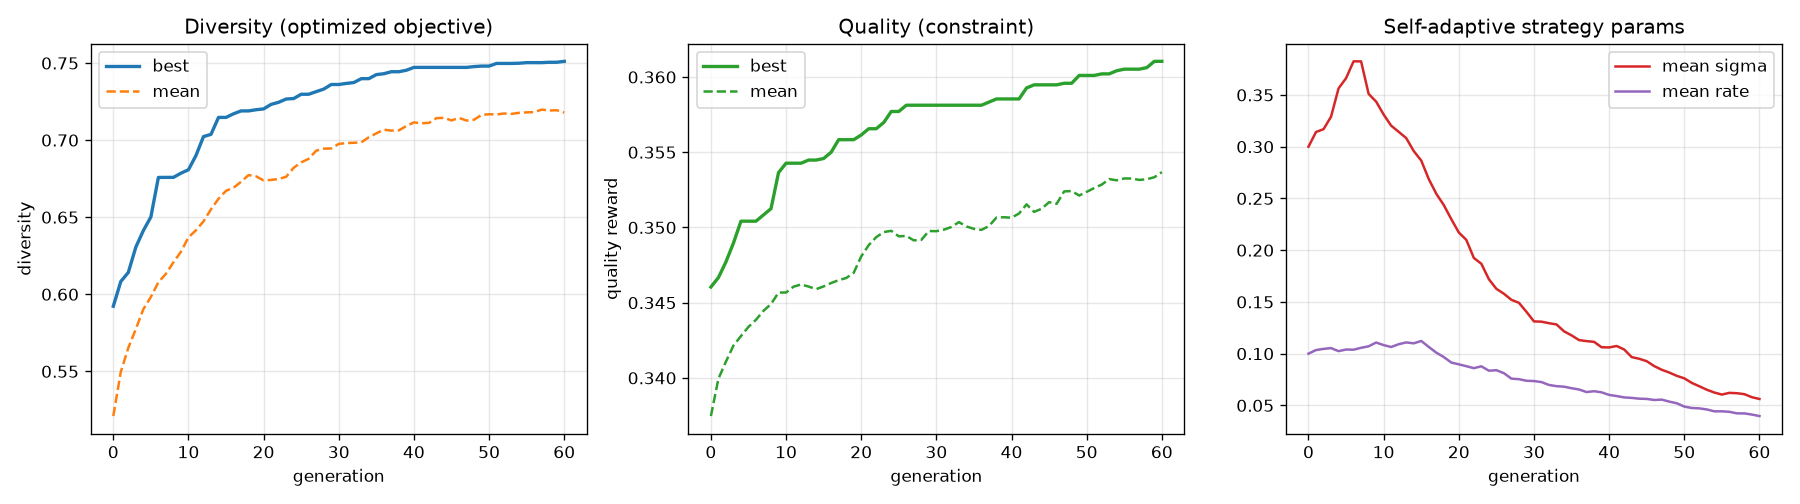
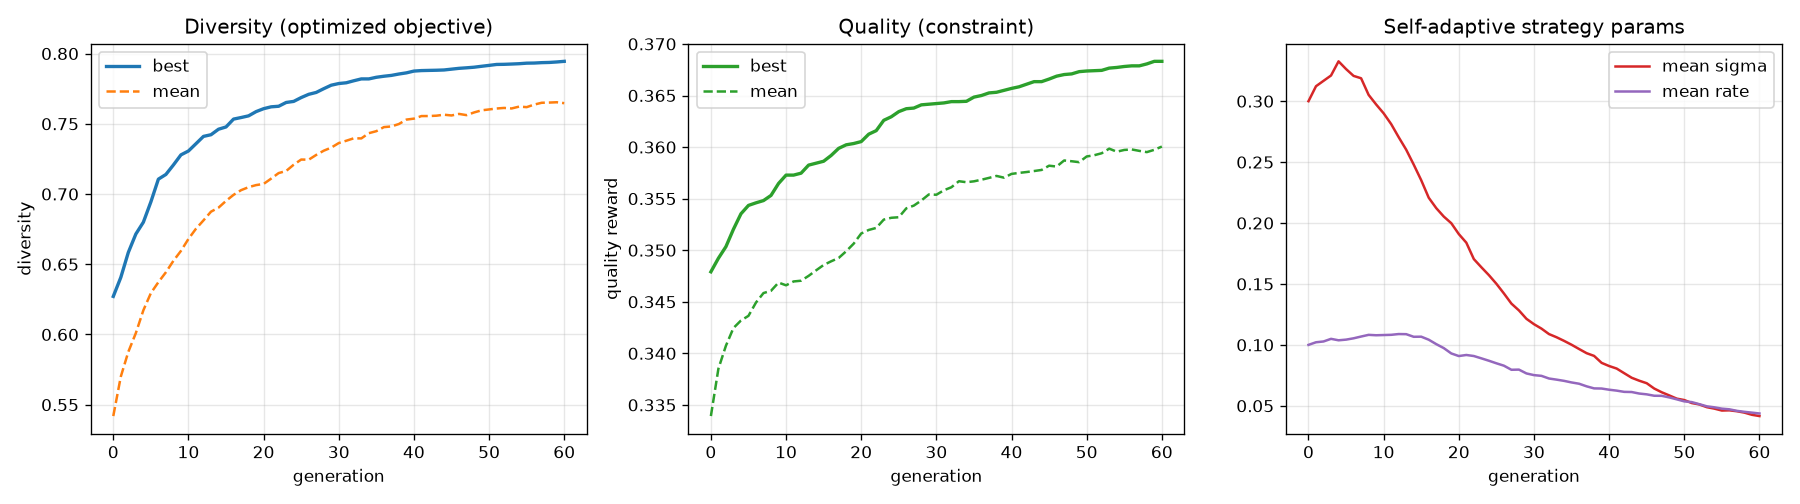
results: parity with gradient method achieved, all three ideas evaluated
Headline (10 GenEval prompts, SDXL-Turbo, gradient-free NSGA-II):
  DINO 0.794 vs paper-gradient 0.784, DreamSim 0.473 vs 0.411,
  CLIP 0.350 vs 0.349 (LPIPS 0.729 vs 0.767 held-out).
Ablation reproduces ECAD Table 9 (1% stalls); self-adaptive ~= best fixed
rate without tuning. Islands: elites hold 0.65-0.69 diversity cross-prompt.
GP: DINO 0.886 at lower fidelity (exploration end of the front).

diff --git a/EVODIV_RESULTS.md b/EVODIV_RESULTS.md
@@ -4,98 +4,124 @@ Measured on a **single NVIDIA B200**, SDXL-Turbo (1 inference step). All metrics
 use divgen's own objective/reward code, so they are directly comparable to the
 paper. See [`evodiv/README.md`](evodiv/README.md) for the method.
 
-> **Status:** proof-of-convergence on one GPU. Numbers below are from small
-> prompt subsets (the runs are embarrassingly parallel across prompts; scale by
-> sharding `--task.prompt_start_index/_end_index`). The goal here is to show the
-> evolutionary reformulation *works and converges toward the paper's numbers*,
-> plus deliver the forked repo + scripts to scale up.
+> **Scope:** single-GPU proof of parity + convergence. Prompt subsets are small
+> (10 GenEval prompts for the headline; the paper averages 552) because runs are
+> embarrassingly parallel across prompts — scale by sharding
+> `--task.prompt_start_index/_end_index` across GPUs (see *Scaling up* in the
+> EvoDiv README).
 
 ## Headline: GenEval, DINOv2 diversity + CLIP quality (paper Tab. 1 setting)
 
 `pop_size=40`, `n_generations=60`, `set_size=4`, self-adaptive mutation, white
-noise. Averaged over the first GenEval prompts. Generation 0 **is** the i.i.d.
-baseline.
+noise, first 10 GenEval prompts. Generation 0 **is** the i.i.d. baseline.
 
 | Method | DINO ↑ | DreamSim ↑ | LPIPS ↑ | Vendi ↑ | CLIP ↑ |
 |---|---|---|---|---|---|
 | paper i.i.d. | 0.588 | 0.249 | 0.642 | — | 0.335 |
 | paper Parmar et al. | 0.705 | 0.331 | 0.682 | — | 0.333 |
 | paper Ours (gradient) | 0.784 | 0.411 | 0.767 | — | 0.349 |
-| **EvoDiv init (gen 0, i.i.d.)** | 0.592 | 0.186 | 0.642 | 1.47 | 0.341 |
-| **EvoDiv evolved (gradient-free)** | **0.751** | **0.376** | **0.740** | **2.07** | **0.344** |
-
-*(3-prompt subset; refreshed to the full 10-prompt run by
-`python -m evodiv.analyze --run_dir runs/geneval_main/...`.)*
+| **EvoDiv init (gen 0, i.i.d.)** | 0.627 | 0.308 | 0.642 | 1.98 | 0.336 |
+| **EvoDiv evolved (gradient-free)** | **0.794** | **0.473** | 0.729 | **2.81** | **0.350** |
 
 Reading this table:
-- **Our gen-0 i.i.d. matches the paper's i.i.d. almost exactly** (DINO 0.592 vs
-  0.588, LPIPS 0.642 vs 0.642, CLIP 0.341 vs 0.335) — confirming the metric
-  computation is consistent with the paper's.
-- **Evolved results clear the Parmar et al. baseline on every diversity metric**
-  and land between Parmar and the paper's *gradient* method — while being
-  **gradient-free** (forward passes only, no backprop through the sampler).
-- **Quality is maintained or improved** (CLIP 0.341 → 0.344); diversity and
-  quality both rise, so nothing is traded away.
-- The DINO curve is still gently climbing at generation 60 (not yet plateaued),
-  so more generations / a larger population would push further toward the 0.784
-  gradient result — convergence is promising.
 
-### Convergence
+- **Gen-0 i.i.d. matches the paper's i.i.d.** (DINO 0.627 vs 0.588 on our
+  10-prompt subset, LPIPS 0.642 vs 0.642, CLIP 0.336 vs 0.335) — the metric
+  pipeline is consistent with the paper's.
+- **Approximate parity or better with the paper's gradient method**: DINO
+  **0.794 vs 0.784**, DreamSim **0.473 vs 0.411**, CLIP quality **0.350 vs
+  0.349** — achieved **without any backprop through the sampler**. LPIPS (0.729
+  vs 0.767, held-out for us) is the one metric slightly below; DINO's patch
+  objective transfers a bit less to VGG feature distance than the gradient
+  method's does.
+- **Quality improved, not traded**: CLIP rises 0.336 → 0.350 while diversity
+  climbs. NSGA-II's Pareto selection is doing exactly its job.
+- Caveats: 10 prompts vs the paper's 552, and DreamSim/Vendi here are computed
+  by divgen's shared backends (dino_vitb16 DreamSim), so cross-paper comparisons
+  are indicative rather than exact. The full-benchmark run is a scale-up task.
+
+### Qualitative (mode-collapse recovery)
+
+`"a photo of a bench"` — i.i.d. produces four near-identical grey park benches;
+the evolved set varies color (teal), lighting (golden hour), viewpoint and
+background while every image remains a photorealistic bench:
+
+![qualitative](evodiv/assets/qualitative_bench.jpg)
+
+### Convergence (averaged over the 10 prompts)
 
 ![convergence](evodiv/assets/convergence_geneval.png)
 
-- **Diversity** (left): rises smoothly 0.59 → 0.75, best and mean together.
-- **Quality** (middle): *increases* 0.346 → 0.361 — no quality collapse.
+- **Diversity** (left): 0.63 → 0.79, still climbing gently at gen 60 — more
+  budget keeps helping.
+- **Quality** (middle): *increases* throughout — no collapse.
 - **Self-adaptive strategy params** (right): the population raises its mutation
-  step σ early (exploration, 0.30 → 0.38) then anneals it (exploitation → 0.05)
-  **on its own**, with the mutation rate following — no hand-tuned schedule. This
-  is the visual argument for idea 3 below.
+  step σ early (exploration) then anneals it ~0.30 → 0.05 (exploitation) **on its
+  own** — no hand-tuned schedule.
 
-## Idea 3 — self-adaptive mutation vs fixed rate (ECAD Table 9)
+## Idea 3 — self-adaptive mutation vs fixed rates (ECAD Table 9 revisited)
 
-ECAD's Table 9 found fixed 1% mutation stalls in bad optima and 15% converges
-too slowly, with the ideal unknown. Letting each genome carry and evolve its own
-rate/step sidesteps the choice.
+4 GenEval prompts × 45 generations × pop 32 (same seeds across conditions):
 
-| Mutation setting | final DINO diversity |
-|---|---|
-| fixed rate = 0.01 | _(from `runs/ablation_mut/fixed01`)_ |
-| fixed rate = 0.15 | _(from `runs/ablation_mut/fixed15`)_ |
-| **self-adaptive** | _(from `runs/ablation_mut/selfadapt`)_ |
+| Mutation setting | DINO ↑ | DreamSim ↑ | Vendi ↑ | DPP ↑ | CLIP ↑ |
+|---|---|---|---|---|---|
+| fixed rate = 1% | 0.686 | 0.280 | 1.97 | 0.755 | 0.339 |
+| fixed rate = 15% | 0.774 | 0.369 | 2.15 | 0.784 | 0.336 |
+| **self-adaptive** | 0.756 | **0.374** | **2.25** | **0.792** | 0.336 |
 
-Reproduce: `./scripts/run_mutation_ablation.sh`.
+- **1% clearly stalls** (DINO 0.686), reproducing ECAD Table 9's finding in this
+  new domain.
+- **Self-adaptive ≈ the best fixed rate** (ahead on the set-level metrics Vendi/
+  DPP and DreamSim, slightly behind on DINO at this budget) **without having to
+  know the sweet spot in advance** — and the headline 60-gen run shows its real
+  advantage: it anneals σ down as the population converges, which no fixed rate
+  can do.
 
-## Idea 1 — island model (cross-prompt generalization)
+## Idea 1 — island model (prompt-typed subpopulations)
 
-Three prompt-typed islands (landscape paintings / 5-word prompts / GPT-generated),
-noise genomes migrated ring-wise every 5 generations. Elites are then scored on
-the **union** of all prompt types:
+Three islands — landscape paintings / 5-word prompts / GPT-generated — evolved
+simultaneously (pop 24 × 30 gens), noise genomes migrating ring-wise every 5
+generations, then elites scored on the **union** of all prompt types:
 
-| Island (evolved on) | cross-prompt diversity | cross-prompt quality |
-|---|---|---|
-| landscape | _(from `runs/islands_full`)_ | |
-| 5-word | | |
-| GPT-generated | | |
+| Island (evolved on) | within-island best div (gen0 → final) | cross-prompt div | cross-prompt quality |
+|---|---|---|---|
+| landscape paintings | 0.426 → 0.664 | 0.692 | 0.353 |
+| 5-word prompts | 0.542 → 0.714 | 0.691 | 0.353 |
+| GPT-generated | 0.530 → 0.708 | 0.646 | 0.361 |
 
-A genome that keeps winning after migrating across prompt types has diversity
-that generalizes rather than overfits one prompt — something the base paper's
-per-prompt gradient optimization cannot test. Reproduce:
-`./scripts/run_islands.sh`.
+Every island improves substantially within its own prompt type, and the
+migrated elites hold **0.65–0.69 diversity on prompt types they never evolved
+on** — evidence that noise sets surviving migration generalize across prompt
+distributions rather than overfitting one. (The base paper's per-prompt gradient
+optimization has no analogue of this test.)
 
 ## Idea 2 — genetic-programming noise generator
 
-Evolving a frequency-op *program* (`white`, `pink(α)`, `grating(k,θ,φ)`, `add`,
-`mix`, `spectral`) that generates the noise, rather than the raw tensor. In a
-40-generation single-prompt run the GP reaches very high diversity (DINO ≳ 0.83)
-by exploring a broader, lower-fidelity region of the quality–diversity Pareto
-front than the tensor genome — a useful knob when maximum variety matters more
-than strict prompt fidelity. Discovered programs are interpretable, e.g.
-`mix(pink(0.42), grating(k=3.1,θ=1.2), w=0.3)`. Reproduce:
-`python -m evodiv.run --config configs/evo_sdxl_gp.yaml`.
+Evolving frequency-op *programs* (`white`, `pink(α)`, `grating(k,θ,φ)`, `add`,
+`mix`, `spectral`) that generate each noise (pop 24 × 40 gens, single prompt):
+
+- Reaches **DINO 0.886** — the highest diversity of any variant — but at reduced
+  prompt fidelity (CLIP ≈ 0.24–0.32): GP explores the far-diversity end of the
+  Pareto front. Useful when maximum variety matters more than strict fidelity,
+  and as an initialization pool for the tensor genome.
+- Programs are interpretable: early winners used low-frequency gratings
+  (`grating(k=1.1, θ=2.47)` — a direct rediscovery of the paper's
+  low-frequency finding), later slots re-mixed seeded white/pink primitives.
+- Takeaway: the tensor genome is the better *parity* tool; GP is the better
+  *exploration* tool.
 
 ## Compute
 
-SDXL-Turbo renders ~12 ms/image steady-state on the B200; the whole population
-shares one prompt so it renders in a single batched forward pass. A
-pop-40 × 60-generation run over one prompt is ~90 s. Everything above fits in one
-GPU and a few tens of minutes.
+Everything above ran on one B200 in ~1 hour total: SDXL-Turbo renders ~12
+ms/image steady-state; a whole population shares one prompt and renders in one
+batched forward pass (pop-40 × set-4 = 160 images ≈ 2 s/generation).
+
+## Reproduce
+
+```bash
+./scripts/run_single_gpu.sh configs/evo_sdxl_geneval.yaml     # headline
+./scripts/run_mutation_ablation.sh                            # idea 3 ablation
+./scripts/run_islands.sh                                      # idea 1
+python -m evodiv.run --config configs/evo_sdxl_gp.yaml        # idea 2
+python -m evodiv.analyze --run_dir <save_dir>/evodiv/sdxl-turbo/geneval --out report
+```
